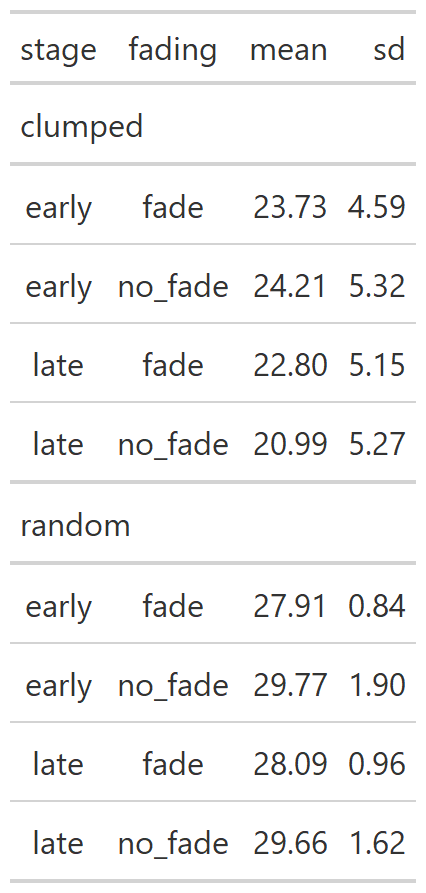
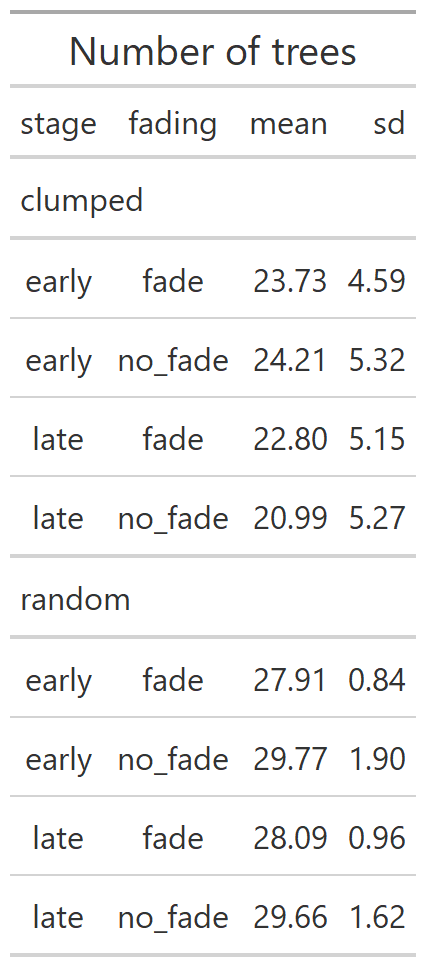
commit e2 number of trees plots

Changed region(s): [[0.0305, 0.0, 0.9765, 0.9675], [0.0915, 0.9373, 0.2136, 0.9675]]

diff --git a/docs/number-of-trees-1.html b/docs/number-of-trees-1.html
@@ -159,26 +159,26 @@
 <span class="header-section-number">9.4</span> Descriptives<a class="anchor" aria-label="anchor" href="#descriptives-1"><i class="fas fa-link"></i></a>
 </h2>
 <div class="sourceCode" id="cb16"><pre class="downlit sourceCode r">
-<code class="sourceCode R"><span class="va">CONDITION_MEANS</span> <span class="op">%&gt;%</span> <span class="fu">gt</span><span class="op">(</span>groupname_col <span class="op">=</span> <span class="st">"resources"</span><span class="op">)</span> <span class="op">%&gt;%</span> <span class="fu">fmt_number</span><span class="op">(</span>columns <span class="op">=</span> <span class="fu"><a href="https://rdrr.io/r/base/c.html">c</a></span><span class="op">(</span><span class="st">"mean"</span>,<span class="st">"sd"</span><span class="op">)</span>, decimals<span class="op">=</span><span class="fl">2</span><span class="op">)</span> <span class="op">%&gt;%</span> <span class="fu">gtsave</span><span class="op">(</span><span class="st">"e2_tables/ntrees_condition_means.png"</span><span class="op">)</span></code></pre></div>
+<code class="sourceCode R"><span class="va">CONDITION_MEANS</span> <span class="op">%&gt;%</span> <span class="fu">gt</span><span class="op">(</span>groupname_col <span class="op">=</span> <span class="st">"resources"</span><span class="op">)</span> <span class="op">%&gt;%</span> <span class="fu">fmt_number</span><span class="op">(</span>columns <span class="op">=</span> <span class="fu"><a href="https://rdrr.io/r/base/c.html">c</a></span><span class="op">(</span><span class="st">"mean"</span>,<span class="st">"sd"</span><span class="op">)</span>, decimals<span class="op">=</span><span class="fl">2</span><span class="op">)</span> <span class="op">%&gt;%</span> <span class="fu">tab_header</span><span class="op">(</span><span class="st">"Number of trees"</span><span class="op">)</span> <span class="op">%&gt;%</span>  <span class="fu">gtsave</span><span class="op">(</span><span class="st">"e2_tables/ntrees_condition_means.png"</span><span class="op">)</span></code></pre></div>
 <div class="inline-figure"><img src="e2_figures/unnamed-chunk-7-1.png" width="33%"></div>
 <div class="sourceCode" id="cb17"><pre class="downlit sourceCode r">
-<code class="sourceCode R"><span class="va">RESOURCES_FADING_MEANS</span> <span class="op">%&gt;%</span> <span class="fu">gt</span><span class="op">(</span>groupname_col <span class="op">=</span> <span class="st">"resources"</span><span class="op">)</span> <span class="op">%&gt;%</span> <span class="fu">fmt_number</span><span class="op">(</span>columns <span class="op">=</span> <span class="fu"><a href="https://rdrr.io/r/base/c.html">c</a></span><span class="op">(</span><span class="st">"mean"</span>,<span class="st">"sd"</span><span class="op">)</span>, decimals<span class="op">=</span><span class="fl">2</span><span class="op">)</span> <span class="op">%&gt;%</span> <span class="fu">gtsave</span><span class="op">(</span><span class="st">"e2_tables/ntrees_resources_fading_means.png"</span><span class="op">)</span></code></pre></div>
+<code class="sourceCode R"><span class="va">RESOURCES_FADING_MEANS</span> <span class="op">%&gt;%</span> <span class="fu">gt</span><span class="op">(</span>groupname_col <span class="op">=</span> <span class="st">"resources"</span><span class="op">)</span> <span class="op">%&gt;%</span> <span class="fu">fmt_number</span><span class="op">(</span>columns <span class="op">=</span> <span class="fu"><a href="https://rdrr.io/r/base/c.html">c</a></span><span class="op">(</span><span class="st">"mean"</span>,<span class="st">"sd"</span><span class="op">)</span>, decimals<span class="op">=</span><span class="fl">2</span><span class="op">)</span> <span class="op">%&gt;%</span> <span class="fu">tab_header</span><span class="op">(</span><span class="st">"Number of trees"</span><span class="op">)</span> <span class="op">%&gt;%</span> <span class="fu">gtsave</span><span class="op">(</span><span class="st">"e2_tables/ntrees_resources_fading_means.png"</span><span class="op">)</span></code></pre></div>
 <div class="inline-figure"><img src="e2_figures/unnamed-chunk-8-1.png" width="33%"></div>
 <div class="sourceCode" id="cb18"><pre class="downlit sourceCode r">
-<code class="sourceCode R"><span class="va">RESOURCES_STAGE_MEANS</span> <span class="op">%&gt;%</span> <span class="fu">gt</span><span class="op">(</span>groupname_col <span class="op">=</span> <span class="st">"resources"</span><span class="op">)</span> <span class="op">%&gt;%</span> <span class="fu">fmt_number</span><span class="op">(</span>columns <span class="op">=</span> <span class="fu"><a href="https://rdrr.io/r/base/c.html">c</a></span><span class="op">(</span><span class="st">"mean"</span>,<span class="st">"sd"</span><span class="op">)</span>, decimals<span class="op">=</span><span class="fl">2</span><span class="op">)</span> <span class="op">%&gt;%</span> <span class="fu">gtsave</span><span class="op">(</span><span class="st">"e2_tables/ntrees_resources_stage_means.png"</span><span class="op">)</span></code></pre></div>
+<code class="sourceCode R"><span class="va">RESOURCES_STAGE_MEANS</span> <span class="op">%&gt;%</span> <span class="fu">gt</span><span class="op">(</span>groupname_col <span class="op">=</span> <span class="st">"resources"</span><span class="op">)</span> <span class="op">%&gt;%</span> <span class="fu">fmt_number</span><span class="op">(</span>columns <span class="op">=</span> <span class="fu"><a href="https://rdrr.io/r/base/c.html">c</a></span><span class="op">(</span><span class="st">"mean"</span>,<span class="st">"sd"</span><span class="op">)</span>, decimals<span class="op">=</span><span class="fl">2</span><span class="op">)</span> <span class="op">%&gt;%</span> <span class="fu">tab_header</span><span class="op">(</span><span class="st">"Number of trees"</span><span class="op">)</span> <span class="op">%&gt;%</span> <span class="fu">gtsave</span><span class="op">(</span><span class="st">"e2_tables/ntrees_resources_stage_means.png"</span><span class="op">)</span></code></pre></div>
 <div class="inline-figure"><img src="e2_figures/unnamed-chunk-9-1.png" width="33%"></div>
 <div class="sourceCode" id="cb19"><pre class="downlit sourceCode r">
-<code class="sourceCode R"><span class="va">STAGE_FADING_MEANS</span> <span class="op">%&gt;%</span> <span class="fu">gt</span><span class="op">(</span>groupname_col <span class="op">=</span> <span class="st">"stage"</span><span class="op">)</span> <span class="op">%&gt;%</span> <span class="fu">fmt_number</span><span class="op">(</span>columns <span class="op">=</span> <span class="fu"><a href="https://rdrr.io/r/base/c.html">c</a></span><span class="op">(</span><span class="st">"mean"</span>,<span class="st">"sd"</span><span class="op">)</span>, decimals<span class="op">=</span><span class="fl">2</span><span class="op">)</span> <span class="op">%&gt;%</span> <span class="fu">gtsave</span><span class="op">(</span><span class="st">"e2_tables/ntrees_stage_fading_means.png"</span><span class="op">)</span></code></pre></div>
+<code class="sourceCode R"><span class="va">STAGE_FADING_MEANS</span> <span class="op">%&gt;%</span> <span class="fu">gt</span><span class="op">(</span>groupname_col <span class="op">=</span> <span class="st">"stage"</span><span class="op">)</span> <span class="op">%&gt;%</span> <span class="fu">fmt_number</span><span class="op">(</span>columns <span class="op">=</span> <span class="fu"><a href="https://rdrr.io/r/base/c.html">c</a></span><span class="op">(</span><span class="st">"mean"</span>,<span class="st">"sd"</span><span class="op">)</span>, decimals<span class="op">=</span><span class="fl">2</span><span class="op">)</span> <span class="op">%&gt;%</span> <span class="fu">tab_header</span><span class="op">(</span><span class="st">"Number of trees"</span><span class="op">)</span> <span class="op">%&gt;%</span> <span class="fu">gtsave</span><span class="op">(</span><span class="st">"e2_tables/ntrees_stage_fading_means.png"</span><span class="op">)</span></code></pre></div>
 <div class="inline-figure"><img src="e2_figures/unnamed-chunk-10-1.png" width="33%"></div>
 <div class="sourceCode" id="cb20"><pre class="downlit sourceCode r">
-<code class="sourceCode R"><span class="va">RESOURCES_MEANS</span> <span class="op">%&gt;%</span> <span class="fu">gt</span><span class="op">(</span><span class="op">)</span> <span class="op">%&gt;%</span> <span class="fu">fmt_number</span><span class="op">(</span>columns <span class="op">=</span> <span class="fu"><a href="https://rdrr.io/r/base/c.html">c</a></span><span class="op">(</span><span class="st">"mean"</span>,<span class="st">"sd"</span><span class="op">)</span>, decimals<span class="op">=</span><span class="fl">2</span><span class="op">)</span> <span class="op">%&gt;%</span> <span class="fu">gtsave</span><span class="op">(</span><span class="st">"e2_tables/ntrees_resources_means.png"</span><span class="op">)</span></code></pre></div>
+<code class="sourceCode R"><span class="va">RESOURCES_MEANS</span> <span class="op">%&gt;%</span> <span class="fu">gt</span><span class="op">(</span><span class="op">)</span> <span class="op">%&gt;%</span> <span class="fu">fmt_number</span><span class="op">(</span>columns <span class="op">=</span> <span class="fu"><a href="https://rdrr.io/r/base/c.html">c</a></span><span class="op">(</span><span class="st">"mean"</span>,<span class="st">"sd"</span><span class="op">)</span>, decimals<span class="op">=</span><span class="fl">2</span><span class="op">)</span> <span class="op">%&gt;%</span>  <span class="fu">tab_header</span><span class="op">(</span><span class="st">"Number of trees"</span><span class="op">)</span> <span class="op">%&gt;%</span> <span class="fu">gtsave</span><span class="op">(</span><span class="st">"e2_tables/ntrees_resources_means.png"</span><span class="op">)</span></code></pre></div>
 <div class="inline-figure"><img src="e2_figures/unnamed-chunk-11-1.png" width="33%"></div>
 <div class="sourceCode" id="cb21"><pre class="downlit sourceCode r">
-<code class="sourceCode R"><span class="va">STAGE_MEANS</span> <span class="op">%&gt;%</span> <span class="fu">gt</span><span class="op">(</span><span class="op">)</span> <span class="op">%&gt;%</span> <span class="fu">fmt_number</span><span class="op">(</span>columns <span class="op">=</span> <span class="fu"><a href="https://rdrr.io/r/base/c.html">c</a></span><span class="op">(</span><span class="st">"mean"</span>,<span class="st">"sd"</span><span class="op">)</span>, decimals<span class="op">=</span><span class="fl">2</span><span class="op">)</span> <span class="op">%&gt;%</span> <span class="fu">gtsave</span><span class="op">(</span><span class="st">"e2_tables/ntrees_stage_means.png"</span><span class="op">)</span></code></pre></div>
-<div class="inline-figure"><img src="e2_figures/descr-1.png" width="33%"></div>
-<div class="sourceCode" id="cb22"><pre class="downlit sourceCode r">
-<code class="sourceCode R"><span class="va">FADING_MEANS</span> <span class="op">%&gt;%</span> <span class="fu">gt</span><span class="op">(</span><span class="op">)</span> <span class="op">%&gt;%</span> <span class="fu">fmt_number</span><span class="op">(</span>columns <span class="op">=</span> <span class="fu"><a href="https://rdrr.io/r/base/c.html">c</a></span><span class="op">(</span><span class="st">"mean"</span>,<span class="st">"sd"</span><span class="op">)</span>, decimals<span class="op">=</span><span class="fl">2</span><span class="op">)</span> <span class="op">%&gt;%</span> <span class="fu">gtsave</span><span class="op">(</span><span class="st">"e2_tables/ntrees_fading_means.png"</span><span class="op">)</span></code></pre></div>
+<code class="sourceCode R"><span class="va">STAGE_MEANS</span> <span class="op">%&gt;%</span> <span class="fu">gt</span><span class="op">(</span><span class="op">)</span> <span class="op">%&gt;%</span> <span class="fu">fmt_number</span><span class="op">(</span>columns <span class="op">=</span> <span class="fu"><a href="https://rdrr.io/r/base/c.html">c</a></span><span class="op">(</span><span class="st">"mean"</span>,<span class="st">"sd"</span><span class="op">)</span>, decimals<span class="op">=</span><span class="fl">2</span><span class="op">)</span> <span class="op">%&gt;%</span>  <span class="fu">tab_header</span><span class="op">(</span><span class="st">"Number of trees"</span><span class="op">)</span> <span class="op">%&gt;%</span> <span class="fu">gtsave</span><span class="op">(</span><span class="st">"e2_tables/ntrees_stage_means.png"</span><span class="op">)</span></code></pre></div>
 <div class="inline-figure"><img src="e2_figures/unnamed-chunk-12-1.png" width="33%"></div>
+<div class="sourceCode" id="cb22"><pre class="downlit sourceCode r">
+<code class="sourceCode R"><span class="va">FADING_MEANS</span> <span class="op">%&gt;%</span> <span class="fu">gt</span><span class="op">(</span><span class="op">)</span> <span class="op">%&gt;%</span> <span class="fu">fmt_number</span><span class="op">(</span>columns <span class="op">=</span> <span class="fu"><a href="https://rdrr.io/r/base/c.html">c</a></span><span class="op">(</span><span class="st">"mean"</span>,<span class="st">"sd"</span><span class="op">)</span>, decimals<span class="op">=</span><span class="fl">2</span><span class="op">)</span> <span class="op">%&gt;%</span>  <span class="fu">tab_header</span><span class="op">(</span><span class="st">"Number of trees"</span><span class="op">)</span> <span class="op">%&gt;%</span> <span class="fu">gtsave</span><span class="op">(</span><span class="st">"e2_tables/ntrees_fading_means.png"</span><span class="op">)</span></code></pre></div>
+<div class="inline-figure"><img src="e2_figures/unnamed-chunk-13-1.png" width="33%"></div>
 </div>
 <div id="anova-with-resources-and-stage-within-subjects-and-fading-between-subjects" class="section level2" number="9.5">
 <h2>
@@ -195,30 +195,14 @@
 <span class="co">#&gt; Warning: Data is unbalanced (unequal N per group). Make sure</span>
 <span class="co">#&gt; you specified a well-considered value for the type argument</span>
 <span class="co">#&gt; to ezANOVA().</span></code></pre></div>
-<div class="sourceCode" id="cb24"><pre class="downlit sourceCode r">
-<code class="sourceCode R"><span class="va">ez_ntrees</span><span class="op">$</span><span class="va">ANOVA</span> <span class="op">%&gt;%</span> 
-  <span class="fu">select</span><span class="op">(</span><span class="op">-</span><span class="va">ges</span><span class="op">)</span> <span class="op">%&gt;%</span> 
-  <span class="fu">gt</span><span class="op">(</span><span class="op">)</span> <span class="op">%&gt;%</span> 
-  <span class="fu">tab_header</span><span class="op">(</span>
-    title<span class="op">=</span><span class="st">"Number of trees"</span>,
-    subtitle <span class="op">=</span> <span class="st">"ANOVA table"</span>
-  <span class="op">)</span> <span class="op">%&gt;%</span> 
-  <span class="fu">fmt_number</span><span class="op">(</span>
-    columns <span class="op">=</span> <span class="fu"><a href="https://rdrr.io/r/base/c.html">c</a></span><span class="op">(</span><span class="st">"F"</span><span class="op">)</span>,
-    rows<span class="op">=</span><span class="fu">everything</span><span class="op">(</span><span class="op">)</span>,
-    decimals<span class="op">=</span><span class="fl">2</span>
-  <span class="op">)</span>  <span class="op">%&gt;%</span> 
-  <span class="fu">fmt_number</span><span class="op">(</span>
-    columns <span class="op">=</span> <span class="fu"><a href="https://rdrr.io/r/base/c.html">c</a></span><span class="op">(</span><span class="st">"p"</span><span class="op">)</span>,
-    rows<span class="op">=</span><span class="fu">everything</span><span class="op">(</span><span class="op">)</span>,
-    decimals<span class="op">=</span><span class="fl">3</span>
-  <span class="op">)</span> <span class="op">%&gt;%</span> 
-  <span class="fu">cols_align</span><span class="op">(</span>
-    columns<span class="op">=</span><span class="va">`p&lt;.05`</span>,
-    align<span class="op">=</span><span class="st">"c"</span>
-  <span class="op">)</span> <span class="op">%&gt;%</span> 
-  <span class="fu">gtsave</span><span class="op">(</span><span class="st">"e2_tables/ntrees_anova-number-of-trees.png"</span><span class="op">)</span></code></pre></div>
-<div class="inline-figure"><img src="e2_figures/unnamed-chunk-14-1.png" width="33%"></div>
+<div class="inline-figure"><img src="e2_figures/unnamed-chunk-15-1.png" width="33%"></div>
+</div>
+<div id="plots-1" class="section level2" number="9.6">
+<h2>
+<span class="header-section-number">9.6</span> Plots<a class="anchor" aria-label="anchor" href="#plots-1"><i class="fas fa-link"></i></a>
+</h2>
+<div class="inline-figure"><img src="e2_figures/unnamed-chunk-16-1.png" width="50%"></div>
+<div class="inline-figure"><img src="e2_figures/unnamed-chunk-17-1.png" width="50%"></div>
 
 </div>
 </div>
@@ -234,6 +218,7 @@
 <li><a class="nav-link" href="#aggregation-3"><span class="header-section-number">9.3</span> Aggregation 3:</a></li>
 <li><a class="nav-link" href="#descriptives-1"><span class="header-section-number">9.4</span> Descriptives</a></li>
 <li><a class="nav-link" href="#anova-with-resources-and-stage-within-subjects-and-fading-between-subjects"><span class="header-section-number">9.5</span> ANOVA with resources and stage within-subjects and fading between-subjects</a></li>
+<li><a class="nav-link" href="#plots-1"><span class="header-section-number">9.6</span> Plots</a></li>
 </ul>
 
       <div class="book-extra">
@@ -251,7 +236,7 @@
 <footer class="bg-primary text-light mt-5"><div class="container"><div class="row">
 
   <div class="col-12 col-md-6 mt-3">
-    <p>"<strong>Foraging: introducing our gaze-contingent eye-tracking paradigm for studying foraging</strong>" was written by Matthew Green. It was last built on Friday 13 May 2022 at 18:40:14.</p>
+    <p>"<strong>Foraging: introducing our gaze-contingent eye-tracking paradigm for studying foraging</strong>" was written by Matthew Green. It was last built on Friday 13 May 2022 at 19:07:58.</p>
   </div>
 
   <div class="col-12 col-md-6 mt-3">

diff --git a/docs/revisits-per-trial-1.html b/docs/revisits-per-trial-1.html
@@ -80,7 +80,7 @@
 <span class="header-section-number">11.1</span> Raw data<a class="anchor" aria-label="anchor" href="#raw-data-1"><i class="fas fa-link"></i></a>
 </h2>
 <p>This line reads in the dataset that results from collating the results files for each participant.</p>
-<div class="sourceCode" id="cb25"><pre class="downlit sourceCode r">
+<div class="sourceCode" id="cb24"><pre class="downlit sourceCode r">
 <code class="sourceCode R"><span class="va">e2</span> <span class="op">&lt;-</span> <span class="fu"><a href="https://rdrr.io/r/base/readRDS.html">readRDS</a></span><span class="op">(</span><span class="st">"fgms_e2_allsubs.rds"</span><span class="op">)</span></code></pre></div>
 
 </div>
@@ -110,7 +110,7 @@
 <footer class="bg-primary text-light mt-5"><div class="container"><div class="row">
 
   <div class="col-12 col-md-6 mt-3">
-    <p>"<strong>Foraging: introducing our gaze-contingent eye-tracking paradigm for studying foraging</strong>" was written by Matthew Green. It was last built on Friday 13 May 2022 at 18:40:14.</p>
+    <p>"<strong>Foraging: introducing our gaze-contingent eye-tracking paradigm for studying foraging</strong>" was written by Matthew Green. It was last built on Friday 13 May 2022 at 19:07:58.</p>
   </div>
 
   <div class="col-12 col-md-6 mt-3">

diff --git a/docs/404.html b/docs/404.html
@@ -89,7 +89,7 @@ the table of contents to find the page you are looking for.</p>
 <footer class="bg-primary text-light mt-5"><div class="container"><div class="row">
 
   <div class="col-12 col-md-6 mt-3">
-    <p>"<strong>Foraging: introducing our gaze-contingent eye-tracking paradigm for studying foraging</strong>" was written by Matthew Green. It was last built on Friday 13 May 2022 at 18:40:14.</p>
+    <p>"<strong>Foraging: introducing our gaze-contingent eye-tracking paradigm for studying foraging</strong>" was written by Matthew Green. It was last built on Friday 13 May 2022 at 19:07:58.</p>
   </div>
 
   <div class="col-12 col-md-6 mt-3">

diff --git a/docs/index.html b/docs/index.html
@@ -108,7 +108,7 @@ set in the _output.yml file.&lt;/p&gt;">
 <footer class="bg-primary text-light mt-5"><div class="container"><div class="row">
 
   <div class="col-12 col-md-6 mt-3">
-    <p>"<strong>Foraging: introducing our gaze-contingent eye-tracking paradigm for studying foraging</strong>" was written by Matthew Green. It was last built on Friday 13 May 2022 at 18:40:14.</p>
+    <p>"<strong>Foraging: introducing our gaze-contingent eye-tracking paradigm for studying foraging</strong>" was written by Matthew Green. It was last built on Friday 13 May 2022 at 19:07:58.</p>
   </div>
 
   <div class="col-12 col-md-6 mt-3">

diff --git a/docs/references.html b/docs/references.html
@@ -106,7 +106,7 @@ set in the _output.yml file.&lt;/p&gt;">
 <footer class="bg-primary text-light mt-5"><div class="container"><div class="row">
 
   <div class="col-12 col-md-6 mt-3">
-    <p>"<strong>Foraging: introducing our gaze-contingent eye-tracking paradigm for studying foraging</strong>" was written by Matthew Green. It was last built on Friday 13 May 2022 at 18:40:14.</p>
+    <p>"<strong>Foraging: introducing our gaze-contingent eye-tracking paradigm for studying foraging</strong>" was written by Matthew Green. It was last built on Friday 13 May 2022 at 19:07:58.</p>
   </div>
 
   <div class="col-12 col-md-6 mt-3">

diff --git a/docs/inter-tree-distance.html b/docs/inter-tree-distance.html
@@ -102,7 +102,7 @@
 <footer class="bg-primary text-light mt-5"><div class="container"><div class="row">
 
   <div class="col-12 col-md-6 mt-3">
-    <p>"<strong>Foraging: introducing our gaze-contingent eye-tracking paradigm for studying foraging</strong>" was written by Matthew Green. It was last built on Friday 13 May 2022 at 18:40:14.</p>
+    <p>"<strong>Foraging: introducing our gaze-contingent eye-tracking paradigm for studying foraging</strong>" was written by Matthew Green. It was last built on Friday 13 May 2022 at 19:07:58.</p>
   </div>
 
   <div class="col-12 col-md-6 mt-3">

diff --git a/docs/introduction-1.html b/docs/introduction-1.html
@@ -105,7 +105,7 @@
 <footer class="bg-primary text-light mt-5"><div class="container"><div class="row">
 
   <div class="col-12 col-md-6 mt-3">
-    <p>"<strong>Foraging: introducing our gaze-contingent eye-tracking paradigm for studying foraging</strong>" was written by Matthew Green. It was last built on Friday 13 May 2022 at 18:40:14.</p>
+    <p>"<strong>Foraging: introducing our gaze-contingent eye-tracking paradigm for studying foraging</strong>" was written by Matthew Green. It was last built on Friday 13 May 2022 at 19:07:58.</p>
   </div>
 
   <div class="col-12 col-md-6 mt-3">

diff --git a/docs/introduction.html b/docs/introduction.html
@@ -104,7 +104,7 @@
 <footer class="bg-primary text-light mt-5"><div class="container"><div class="row">
 
   <div class="col-12 col-md-6 mt-3">
-    <p>"<strong>Foraging: introducing our gaze-contingent eye-tracking paradigm for studying foraging</strong>" was written by Matthew Green. It was last built on Friday 13 May 2022 at 18:40:14.</p>
+    <p>"<strong>Foraging: introducing our gaze-contingent eye-tracking paradigm for studying foraging</strong>" was written by Matthew Green. It was last built on Friday 13 May 2022 at 19:07:58.</p>
   </div>
 
   <div class="col-12 col-md-6 mt-3">

diff --git a/docs/revisits-per-trial.html b/docs/revisits-per-trial.html
@@ -233,7 +233,7 @@
 <footer class="bg-primary text-light mt-5"><div class="container"><div class="row">
 
   <div class="col-12 col-md-6 mt-3">
-    <p>"<strong>Foraging: introducing our gaze-contingent eye-tracking paradigm for studying foraging</strong>" was written by Matthew Green. It was last built on Friday 13 May 2022 at 18:40:14.</p>
+    <p>"<strong>Foraging: introducing our gaze-contingent eye-tracking paradigm for studying foraging</strong>" was written by Matthew Green. It was last built on Friday 13 May 2022 at 19:07:58.</p>
   </div>
 
   <div class="col-12 col-md-6 mt-3">

diff --git a/docs/appendix-a.html b/docs/appendix-a.html
@@ -99,7 +99,7 @@
 <footer class="bg-primary text-light mt-5"><div class="container"><div class="row">
 
   <div class="col-12 col-md-6 mt-3">
-    <p>"<strong>Foraging: introducing our gaze-contingent eye-tracking paradigm for studying foraging</strong>" was written by Matthew Green. It was last built on Friday 13 May 2022 at 18:40:14.</p>
+    <p>"<strong>Foraging: introducing our gaze-contingent eye-tracking paradigm for studying foraging</strong>" was written by Matthew Green. It was last built on Friday 13 May 2022 at 19:07:58.</p>
   </div>
 
   <div class="col-12 col-md-6 mt-3">

diff --git a/docs/appendix-b.html b/docs/appendix-b.html
@@ -99,7 +99,7 @@
 <footer class="bg-primary text-light mt-5"><div class="container"><div class="row">
 
   <div class="col-12 col-md-6 mt-3">
-    <p>"<strong>Foraging: introducing our gaze-contingent eye-tracking paradigm for studying foraging</strong>" was written by Matthew Green. It was last built on Friday 13 May 2022 at 18:40:14.</p>
+    <p>"<strong>Foraging: introducing our gaze-contingent eye-tracking paradigm for studying foraging</strong>" was written by Matthew Green. It was last built on Friday 13 May 2022 at 19:07:58.</p>
   </div>
 
   <div class="col-12 col-md-6 mt-3">

diff --git a/docs/inter-tree-distance-1.html b/docs/inter-tree-distance-1.html
@@ -99,7 +99,7 @@
 <footer class="bg-primary text-light mt-5"><div class="container"><div class="row">
 
   <div class="col-12 col-md-6 mt-3">
-    <p>"<strong>Foraging: introducing our gaze-contingent eye-tracking paradigm for studying foraging</strong>" was written by Matthew Green. It was last built on Friday 13 May 2022 at 18:40:14.</p>
+    <p>"<strong>Foraging: introducing our gaze-contingent eye-tracking paradigm for studying foraging</strong>" was written by Matthew Green. It was last built on Friday 13 May 2022 at 19:07:58.</p>
   </div>
 
   <div class="col-12 col-md-6 mt-3">
